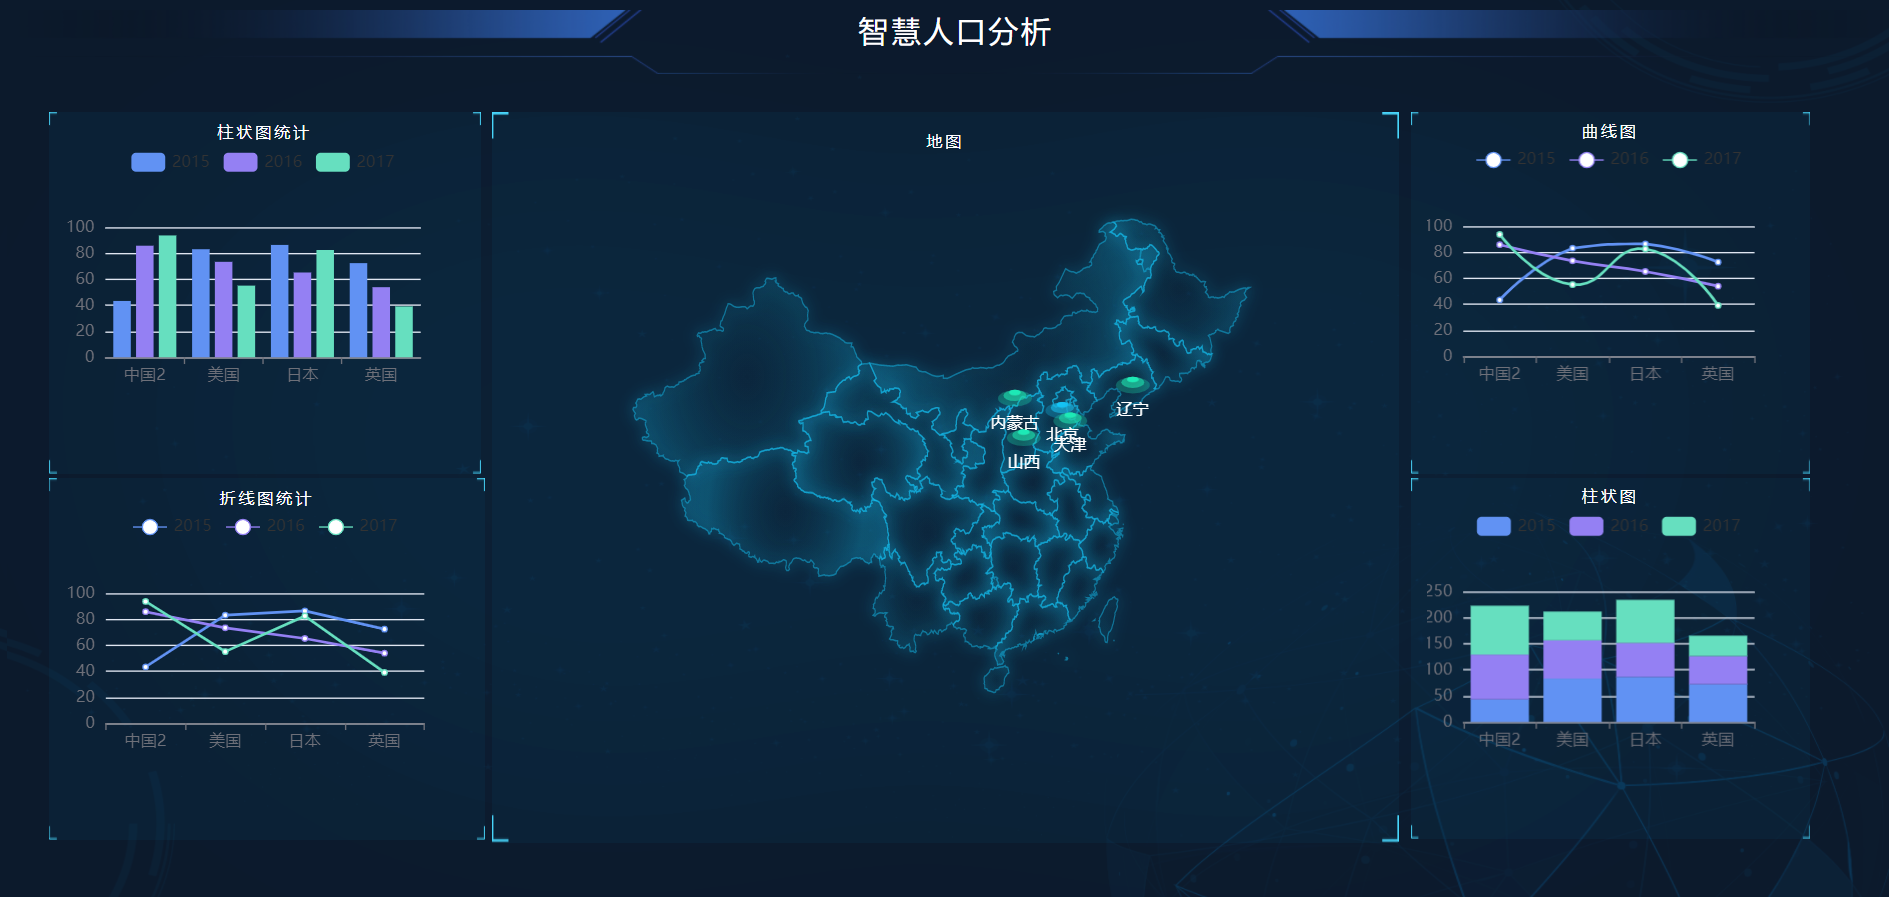
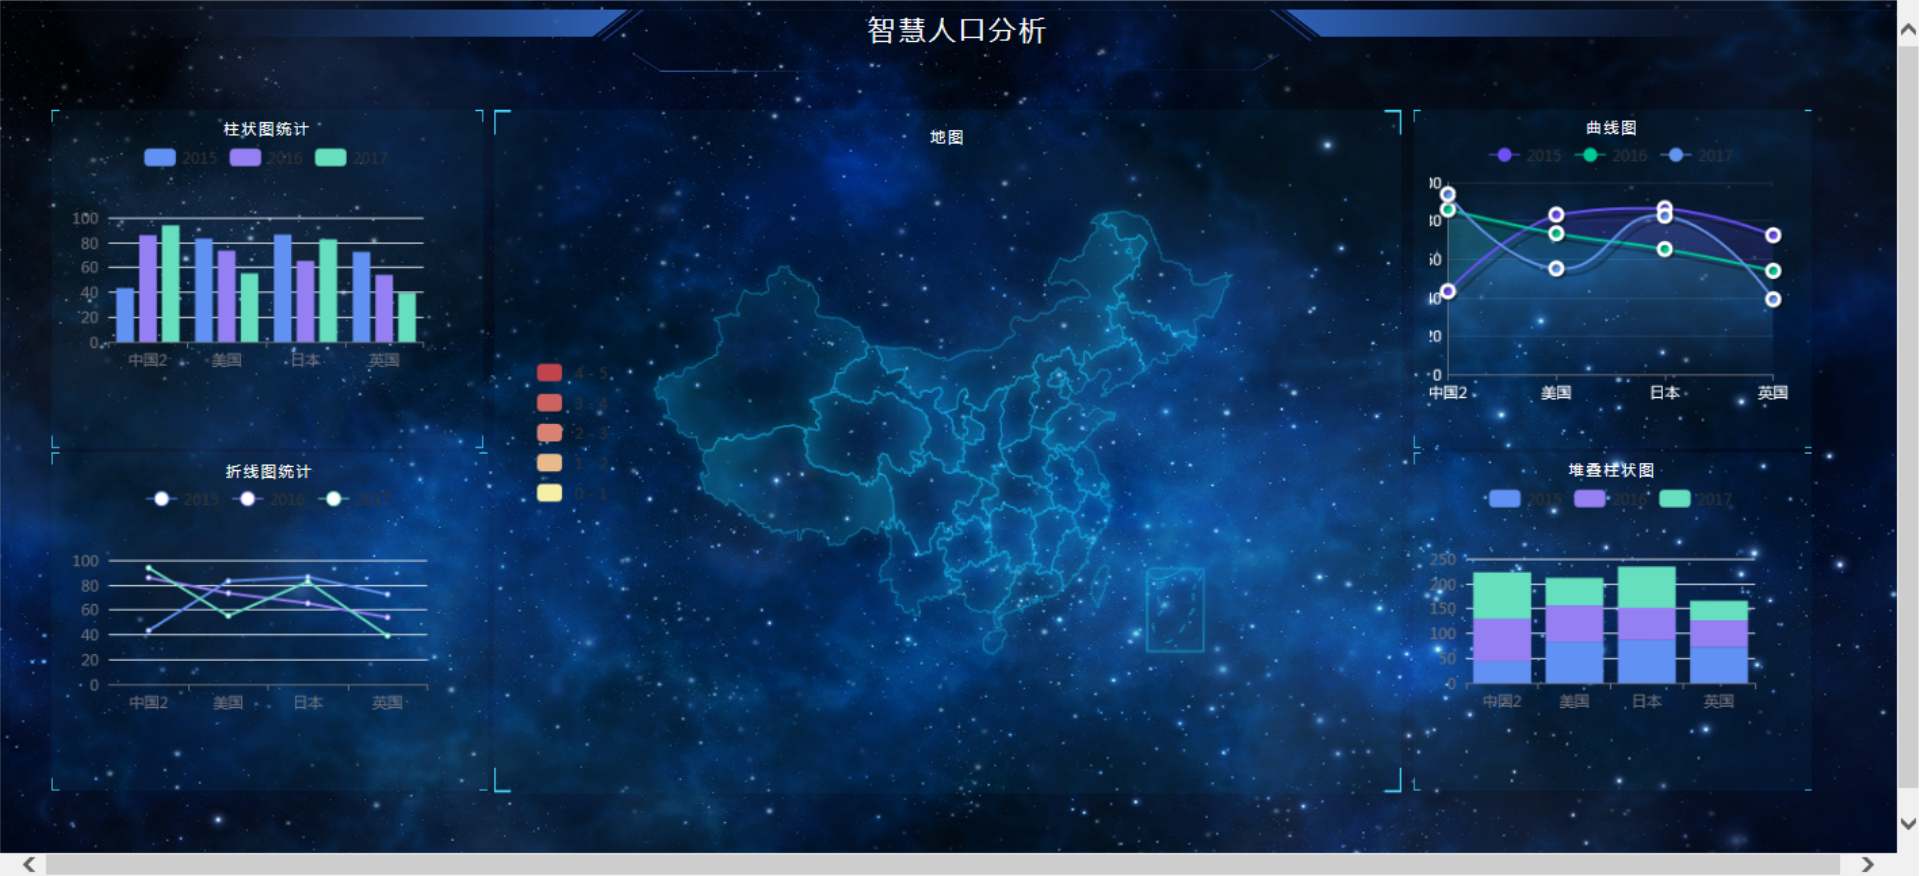
数据大屏更新

diff --git a/Citta_T1/Business/IAOLab/WebEngine/css/style_8.css b/Citta_T1/Business/IAOLab/WebEngine/css/style_8.css
@@ -4,7 +4,7 @@ h2,textarea {
   padding: 0;list-style: none;font-style: normal;
 }
 
-html,body{ font-family: 微软雅黑, MicrosoftYahei, sans-serif; color:#fff; background:#00065b url(../img/img8/true_3.png);    background-size: 100% 100%;background-position:0 0; width: 100%; height: 100%; background-repeat: no-repeat;}
+html,body{ font-family: 微软雅黑, MicrosoftYahei, sans-serif; color:#fff; background:#00065b url(../img/img8/bg.jpg);    background-size: 100% 100%;background-position:0 0; width: 100%; height: 100%; background-repeat: no-repeat;}
 
 .wpbox{
   width: 100%;

diff --git a/Citta_T1/Business/IAOLab/WebEngine/Html/BossIndex8.html b/Citta_T1/Business/IAOLab/WebEngine/Html/BossIndex8.html
@@ -6,7 +6,7 @@
     <meta name="viewport" content="width=device-width, initial-scale=1">
     <title></title>
 
-    <link rel="stylesheet" href="../css/style_3.css">
+    <link rel="stylesheet" href="../css/style_8.css">
 
     <script src="../JS/echarts.min.js"></script>
     <script src="../JS/china.js"></script>

diff --git a/Citta_T1/Business/IAOLab/WebEngine/BOSS/BossTemplateCollection.cs b/Citta_T1/Business/IAOLab/WebEngine/BOSS/BossTemplateCollection.cs
@@ -81,7 +81,7 @@ namespace C2.Business.IAOLab.WebEngine.Boss
             bossTemplateDict.Add(7, new BossTemplate(new List<BossChartConfig>()
                                                     { new BossChartConfig("SimpleBar", "柱状图（左上方）", 1),
                                                       new BossChartConfig("BasicLineChart", "折线图（左下方）", 2),
-                                                      new BossChartConfig("BasicScatter", "点状图（中间）", 3),
+                                                      new BossChartConfig("BasicMap", "地市分布图（中间）", 3),
                                                       new BossChartConfig("GradientLineChart", "曲线图（右上方）", 4),
                                                       new BossChartConfig("StackBar", "堆叠柱状图（右下方）", 5) }));
 
